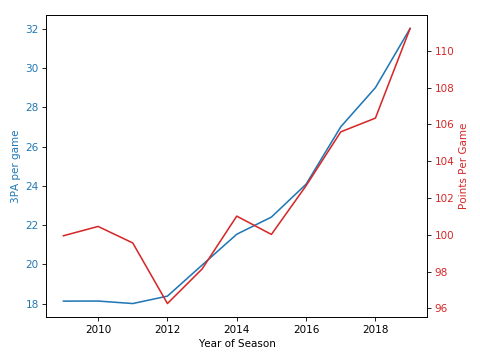
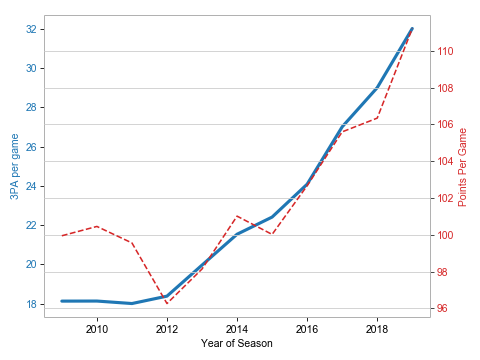
3pa figure tweak

diff --git a/NBA_Trends/3pa.py b/NBA_Trends/3pa.py
@@ -21,16 +21,18 @@ data2 = pts.as_matrix(columns=None)
 
 fig, ax1 = plt.subplots(dpi=75)
 
+sns.set_style('whitegrid')
+
 color = 'tab:blue'
 ax1.set_xlabel('Year of Season')
 ax1.set_ylabel('3PA per game', color=color)
-ax1.plot(df['year'], data1, color=color)
+ax1.plot(df['year'], data1, color=color, linewidth = 3)
 ax1.tick_params(axis='y', labelcolor=color)
 
 ax2 = ax1.twinx()
 color = 'tab:red'
 ax2.set_ylabel('Points Per Game', color=color) 
-ax2.plot(df['year'], data2, color=color)
+ax2.plot(df['year'], data2, color=color, linestyle = '--')
 ax2.tick_params(axis='y', labelcolor=color)
 
 fig.tight_layout() 
